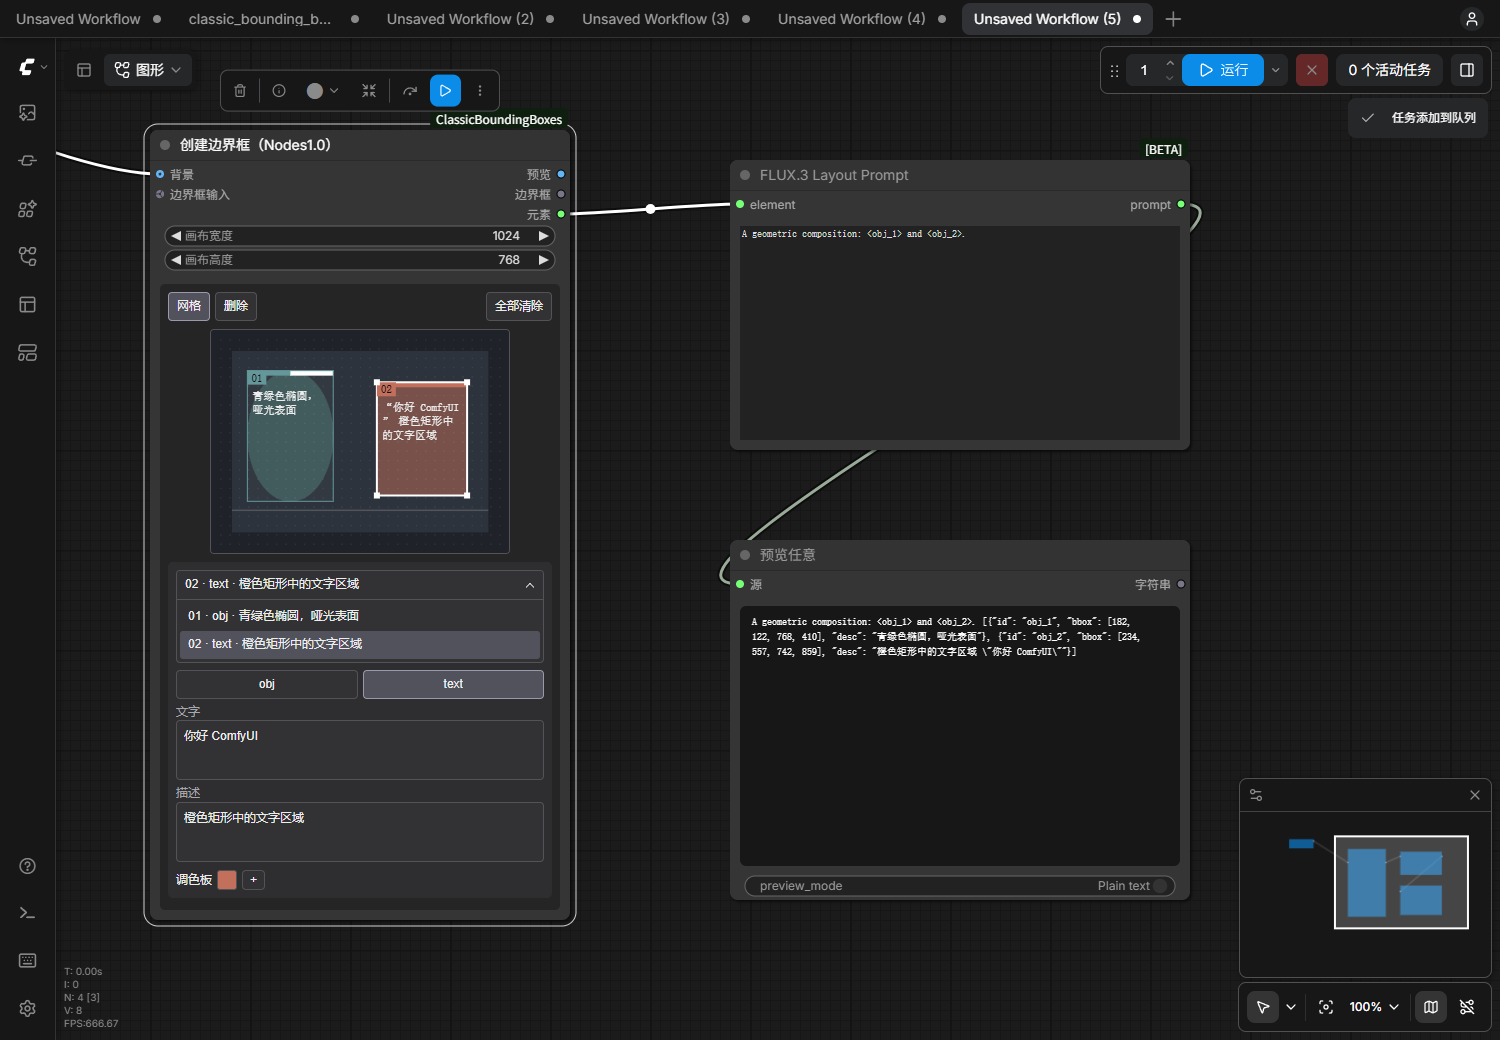
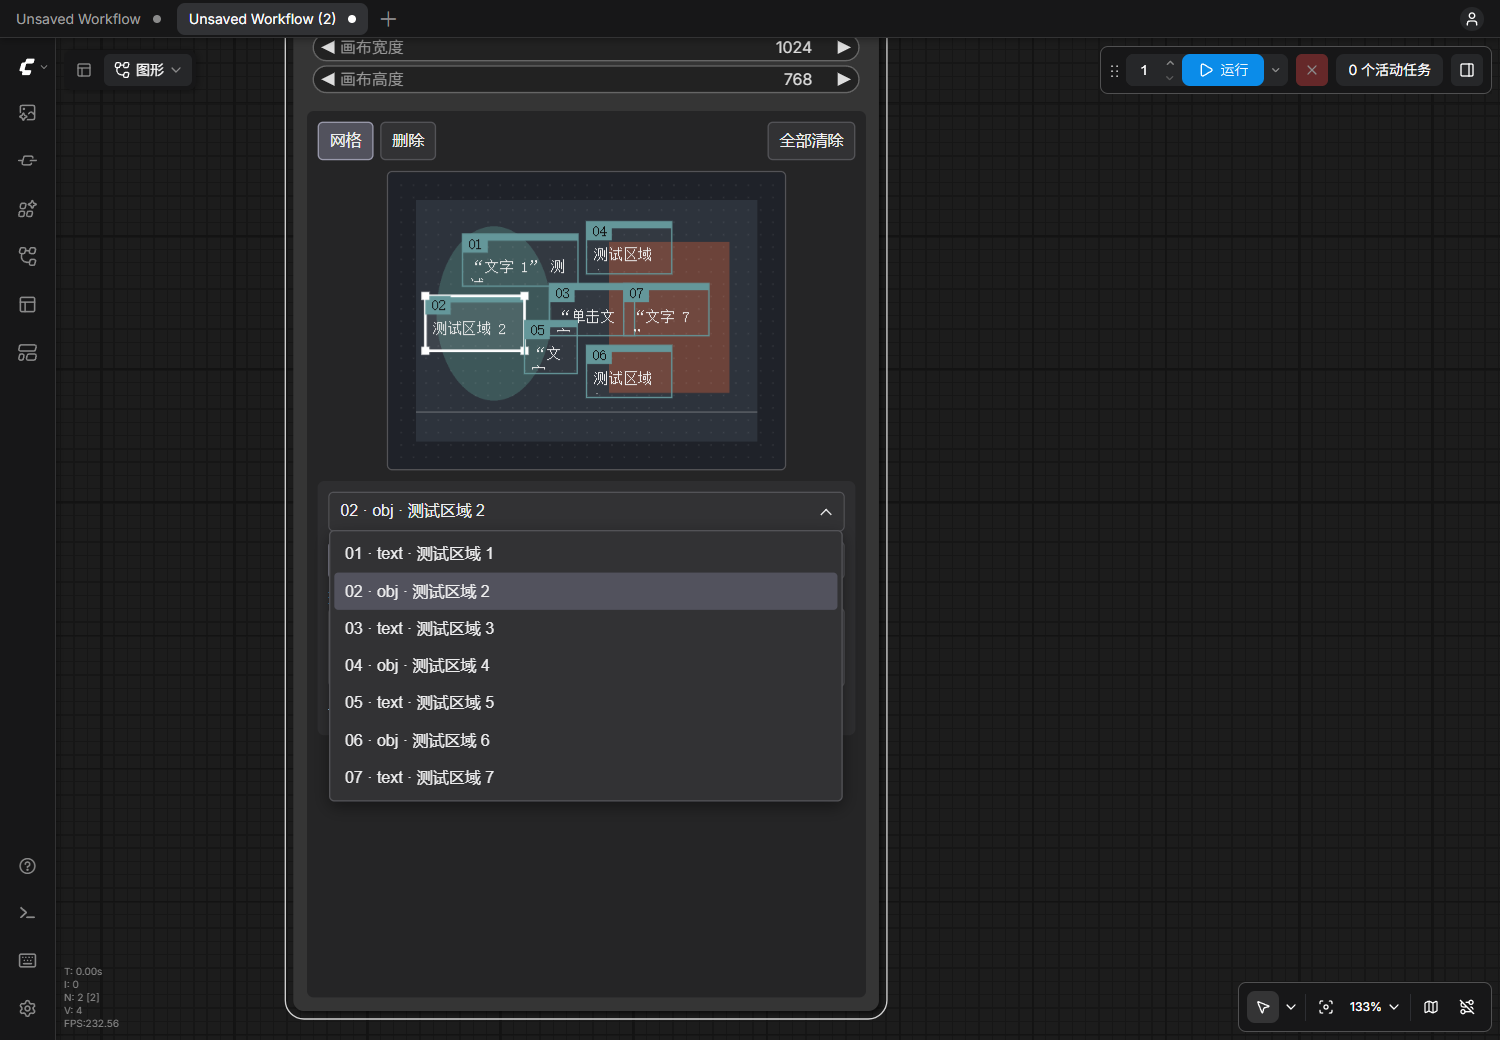
Float region menu without reflow and restore graph wheel gestures

diff --git a/web/editor.js b/web/editor.js
@@ -64,13 +64,26 @@ export class ClassicBoundingBoxesEditor {
     }
 
     build() {
-        // Keep widget events out of LiteGraph's drag, zoom and hotkey handlers.
+        // Keep editing gestures out of LiteGraph's drag and hotkey handlers.
         for (const name of ["pointerdown", "pointermove", "pointerup", "click", "dblclick", "contextmenu", "keydown", "keyup"]) {
             this.listen(this.root, name, (event) => event.stopPropagation());
         }
         this.listen(this.root, "wheel", (event) => {
             event.preventDefault();
             event.stopPropagation();
+            this.setRegionListOpen(false);
+            // DOM widgets sit above (rather than inside) the graph canvas.
+            // Forward wheel input to the real canvas so ComfyUI retains its
+            // own zoom anchor, trackpad handling, modifiers and zoom limits.
+            const graphCanvas = this.app.canvas?.canvas ?? this.app.canvasEl;
+            graphCanvas?.dispatchEvent(new WheelEvent("wheel", {
+                bubbles: true, cancelable: true, composed: true, view: window,
+                clientX: event.clientX, clientY: event.clientY,
+                screenX: event.screenX, screenY: event.screenY,
+                deltaX: event.deltaX, deltaY: event.deltaY, deltaZ: event.deltaZ,
+                deltaMode: event.deltaMode, ctrlKey: event.ctrlKey,
+                shiftKey: event.shiftKey, altKey: event.altKey, metaKey: event.metaKey,
+            }));
         }, { passive: false });
 
         const toolbar = this.toolbar = element("div", "cb-toolbar");
@@ -194,6 +207,7 @@ export class ClassicBoundingBoxesEditor {
         const nextTranslations = String(locale).toLowerCase().startsWith("zh") ? zh : en;
         if (nextTranslations !== this.t) {
             this.t = nextTranslations;
+            this.setRegionListOpen(false);
             this.abort.abort();
             this.closePalette?.();
             this.abort = new AbortController();
@@ -336,6 +350,7 @@ export class ClassicBoundingBoxesEditor {
 
     renderPanel() {
         this.closePalette?.();
+        this.setRegionListOpen(false);
         this.renderButtons();
         this.panel.replaceChildren();
         this.panel.hidden = !this.regions.length;
@@ -350,6 +365,9 @@ export class ClassicBoundingBoxesEditor {
         trigger.setAttribute("aria-haspopup", "listbox");
         trigger.setAttribute("aria-expanded", "false");
         const list = this.regionList = element("div", "cb-region-list");
+        // A top-layer popover never participates in the node's layout and is
+        // not clipped by its DOM widget. Styling still inherits from the node.
+        list.setAttribute("popover", "manual");
         list.setAttribute("role", "listbox");
         list.setAttribute("aria-label", this.t.region);
         list.hidden = true;
@@ -471,10 +489,38 @@ export class ClassicBoundingBoxesEditor {
 
     setRegionListOpen(open) {
         if (!this.regionList) return;
-        this.regionList.hidden = !open;
+        cancelAnimationFrame(this.regionListFrame);
+        const list = this.regionList;
+        if (open) {
+            list.hidden = false;
+            list.showPopover();
+            const trackPosition = () => {
+                if (this.regionList !== list || !list.matches(":popover-open") || !this.root.isConnected) return;
+                this.positionRegionList();
+                this.regionListFrame = requestAnimationFrame(trackPosition);
+            };
+            trackPosition();
+        } else {
+            if (list.matches(":popover-open")) list.hidePopover();
+            list.hidden = true;
+        }
         this.regionTrigger.setAttribute("aria-expanded", String(open));
         this.selector.classList.toggle("cb-open", open);
-        this.layout();
+    }
+
+    positionRegionList() {
+        const trigger = this.regionTrigger;
+        const list = this.regionList;
+        const rect = trigger.getBoundingClientRect();
+        const scale = rect.width / (trigger.offsetWidth || 1);
+        list.style.width = `${rect.width / scale}px`;
+        list.style.transformOrigin = "top left";
+        list.style.transform = `scale(${scale})`;
+        const height = list.offsetHeight * scale;
+        const top = rect.bottom + height <= window.innerHeight - 8
+            ? rect.bottom : Math.max(8, rect.top - height);
+        list.style.left = `${rect.left}px`;
+        list.style.top = `${top}px`;
     }
 
     movePalette(event) {
@@ -659,6 +705,7 @@ export class ClassicBoundingBoxesEditor {
     destroy() {
         clearInterval(this.timer);
         cancelAnimationFrame(this.drawFrame);
+        this.setRegionListOpen(false);
         this.loadGeneration++;
         this.abort.abort();
         this.closePalette?.();

diff --git a/web/styles.css b/web/styles.css
@@ -22,7 +22,8 @@
 .classic-bbox .cb-region-selector>button { display:block; position:relative; width:100%; border:0; border-radius:0; text-align:left; padding-right:24px; white-space:nowrap; text-overflow:ellipsis; overflow:hidden; }
 .classic-bbox .cb-region-selector>button::after { content:""; position:absolute; right:10px; top:10px; width:6px; height:6px; border-right:1px solid currentColor; border-bottom:1px solid currentColor; transform:rotate(45deg); }
 .classic-bbox .cb-region-selector.cb-open>button::after { top:13px; transform:rotate(225deg); }
-.classic-bbox .cb-region-list { border-top:1px solid var(--cb-line); padding:3px; }
+.classic-bbox .cb-region-list { position:fixed; inset:auto; margin:0; min-width:0; padding:3px; border:1px solid var(--cb-line); border-radius:4px; overflow:visible; background:var(--cb-panel); color:var(--cb-text); box-shadow:0 4px 12px #0006; }
+.classic-bbox .cb-region-list::backdrop { background:transparent; }
 .classic-bbox .cb-region-list>button { display:block; width:100%; border:0; border-radius:3px; text-align:left; overflow-wrap:anywhere; background:transparent; }
 .classic-bbox .cb-region-list>button[aria-selected="true"] { background:#52525d; }
 .classic-bbox .cb-palette { display:flex; align-items:center; flex-wrap:wrap; gap:5px; margin-top:8px; }

diff --git a/docs/VALIDATION.md b/docs/VALIDATION.md
@@ -67,4 +67,10 @@ Real mouse input verified four successive object/text switches, with the selecte
 
 The native region select was replaced by an inline, consistently styled listbox supporting pointer selection and keyboard navigation. Seven expanded region options fit without internal overflow (root client height and scroll height both 633px). At 320px node width, the inner width was 300px; the 128-character Chinese text field measured 132px for both client and scroll height.
 
-The default Chinese title was verified as `创建边界框（Nodes1.0）`. Loading a workflow with the previous automatic title upgrades it; a user-written custom title remains intact. A full refresh retained both regions and the original background; switching Chinese → English → Chinese kept the image decoded at 1024×768. Keyboard selection through the inline list and Hex palette editing also passed. The seven official/backend execution comparisons passed again after the schema rename. Current screenshots include [the inline list](region-list-zh.png).
+The default Chinese title was verified as `创建边界框（Nodes1.0）`. Loading a workflow with the previous automatic title upgrades it; a user-written custom title remains intact. A full refresh retained both regions and the original background; switching Chinese → English → Chinese kept the image decoded at 1024×768. Keyboard selection through the inline list and Hex palette editing also passed. The seven official/backend execution comparisons passed again after the schema rename.
+
+## Floating menu and graph wheel input (0.3.1)
+
+The inline expander was replaced by a styled top-layer popover, outside layout flow. It follows the trigger during graph movement/zoom and escapes widget clipping. Seven options were opened and closed at 80%, 100% and 123% graph zoom. Exact before/open/closed comparisons of the image rectangle, type-tab rectangle, field rectangle, node dimensions and root scroll height were identical. At 100%, the image remained 300×225 screen pixels and the node remained 440×800. Menu width matched the trigger at all three scales. Selection, Escape dismissal and single-press text editing passed. See [the floating-menu screenshot](region-list-zh.png).
+
+Real wheel input over the image canvas, text field, palette row and lower empty area each changed graph zoom from 1 to 1.1 and back to 1. The graph coordinate under the pointer was preserved within 0.04 canvas pixels. The adapter forwards wheel deltas, coordinates and modifiers to the real ComfyUI canvas; it does not implement its own zoom scale or limits, so user-configured pan/zoom behavior remains authoritative.

diff --git a/README.md b/README.md
@@ -34,7 +34,7 @@ git clone https://github.com/Yxw052/ComfyUI-ClassicBoundingBoxes.git
 5. 拖动框体移动；拖动四角或边缘调整框大小。在下方编辑对象/文字类型、文字、描述和最多 5 个颜色。
 6. 拖动**节点外框右下角**改变节点宽高。画布宽度/高度参数控制坐标分辨率，与节点显示尺寸分开。
 
-“网格”使用与官方一致的 32 像素吸附规则，大画布会调整步长以限制网格数量。节点内展开的区域列表可选择重叠区域；`obj / text` 按下即切换。工具栏依次为 **网格、删除、全部清除**；删除只影响选中区域，全部清除直接执行。也可按 Delete 删除当前区域。
+“网格”使用与官方一致的 32 像素吸附规则，大画布会调整步长以限制网格数量。悬浮区域菜单可选择重叠区域，打开时不移动下方控件、不改变图片尺寸；`obj / text` 按下即切换。工具栏依次为 **网格、删除、全部清除**；删除只影响选中区域，全部清除直接执行。也可按 Delete 删除当前区域。在节点图片、文字编辑区及下方空白处滚动鼠标滚轮，会按 ComfyUI 的工作区设置缩放或平移整个画面。
 
 调色板采用官方风格的色块和弹出选色器：点击编辑，右键删除，拖动色块排序，“+”添加白色；选色器提供方形色域、色相条和十六进制/RGB输入。界面不显示“×”、额外分辨率文字或操作说明。图片直接使用原图文件完整缩小显示，框线画布按工作区缩放和屏幕像素比调整分辨率，避免放大小位图造成的模糊。编辑器与文本框自适应高度，不依赖内部滚动条。
 

diff --git a/README_EN.md b/README_EN.md
@@ -26,7 +26,8 @@ Disable Nodes 2.0 and add **Create Bounding Boxes (Nodes1.0)**. Replace the offi
 - Drag empty space to draw. Hold Shift to draw inside another region.
 - Move a box by dragging its body. Resize it from its edges or corners.
 - Edit object/text type, text, description and up to five palette colors below the canvas.
-- Select overlapping regions using the inline region list. Object/text tabs switch on the first pointer press. The toolbar contains **Grid, Delete, Clear all**; clearing executes immediately, without a confirmation dialog.
+- Select overlapping regions using the floating region menu. Opening it keeps the image size and all underlying controls in place. Object/text tabs switch on the first pointer press. The toolbar contains **Grid, Delete, Clear all**; clearing executes immediately, without a confirmation dialog.
+- Wheel input over the image, text fields, palette and lower empty area is forwarded to ComfyUI's graph canvas, preserving its configured zoom/pan behavior and pointer anchor.
 - Click a palette swatch to edit, right-click to remove it, and drag swatches to reorder colors. The plus button adds white. The popover matches the official square color field, hue strip, and Hex/RGB inputs.
 - Resize the node from its outer bottom-right corner. Canvas resolution is independent of display size.
 
